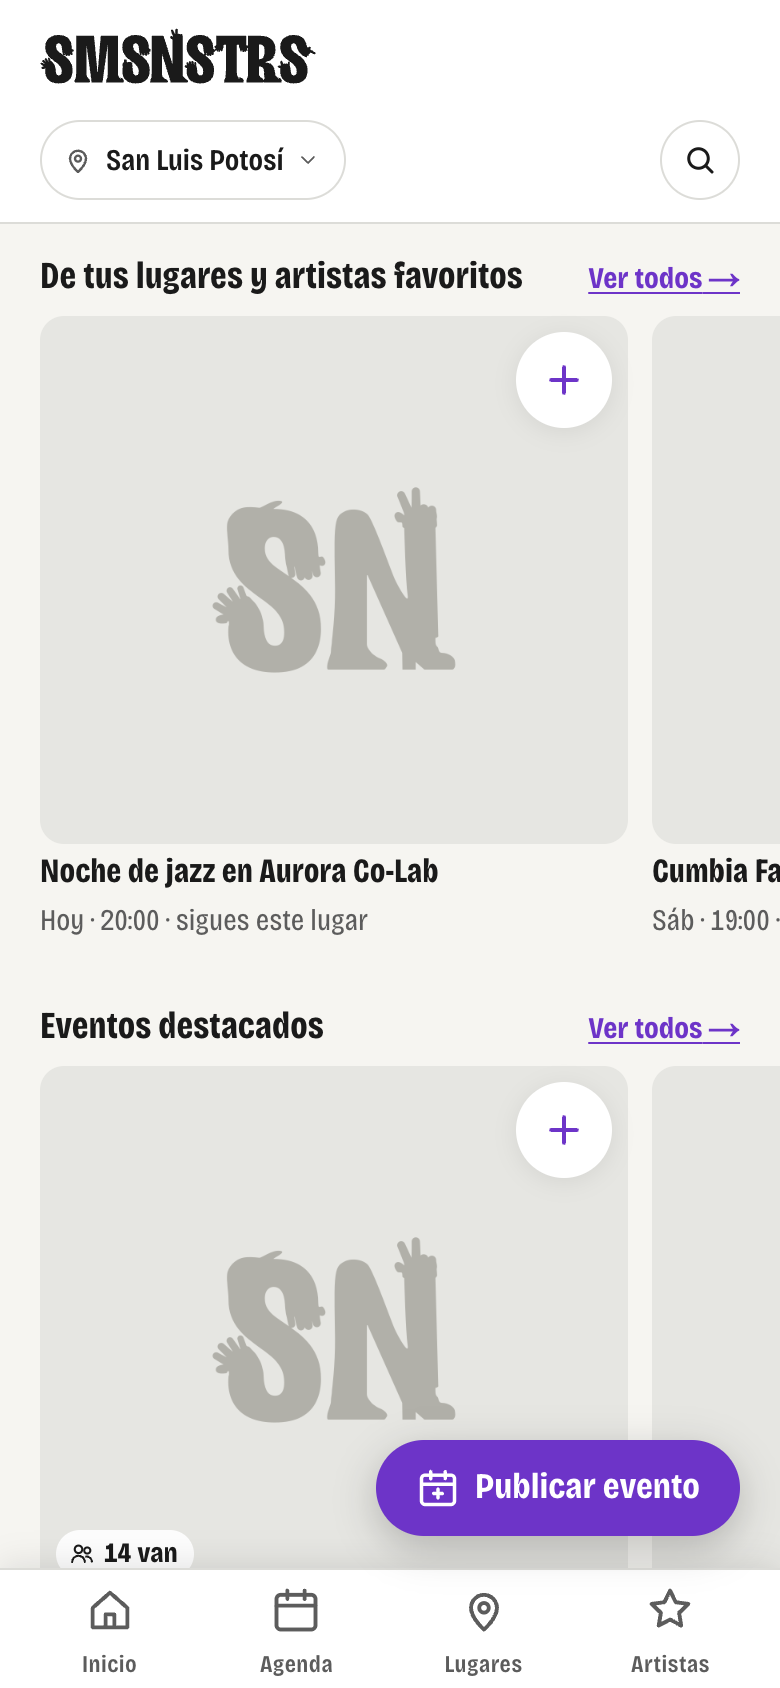
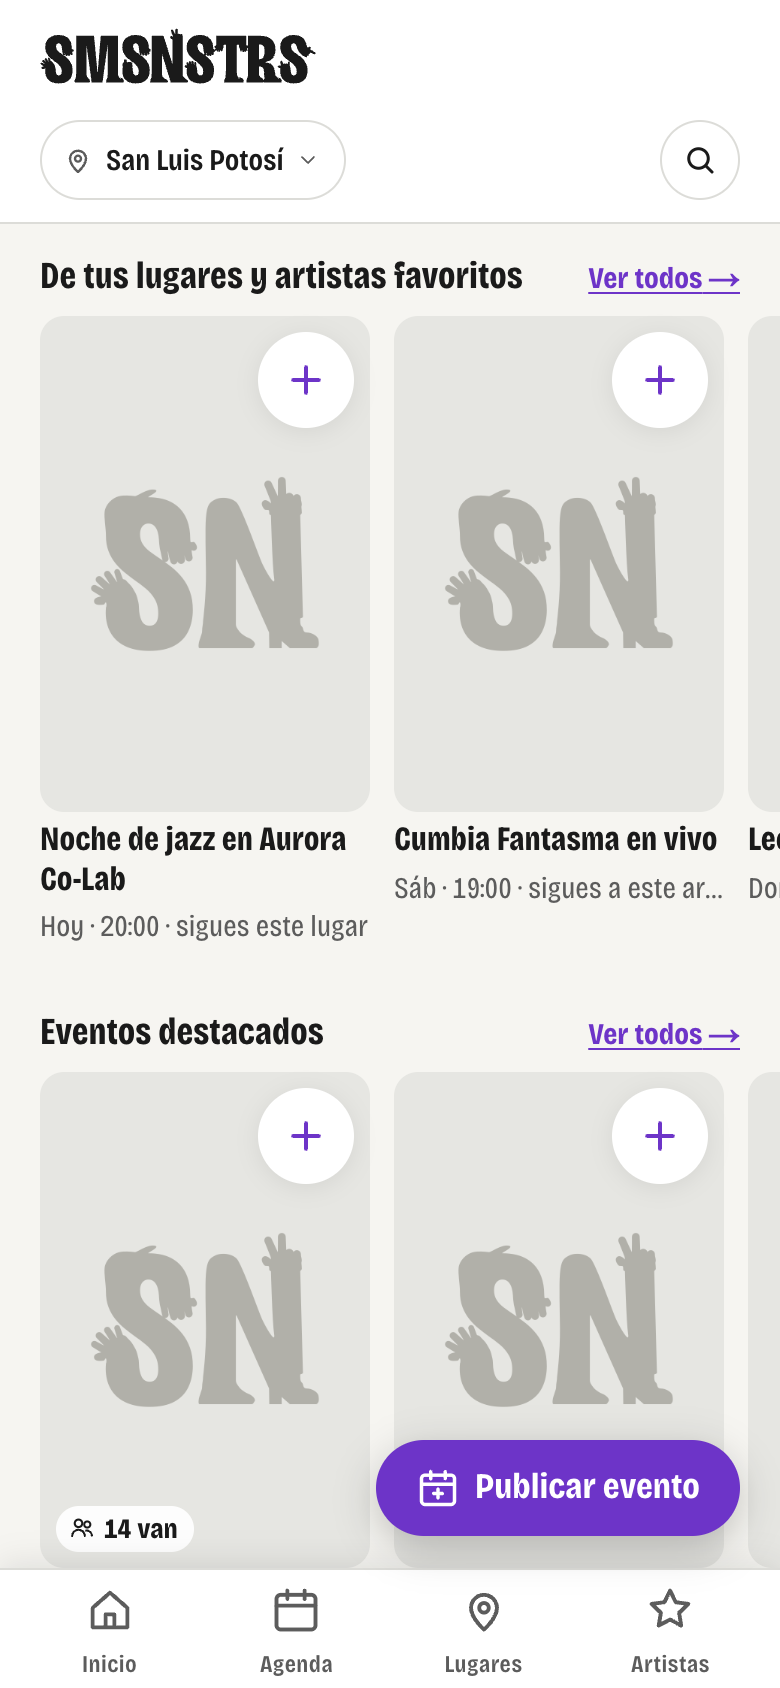
OL-153: corrección del gestor, tarjeta grande a cartel vertical 2:3
La variante grande de Destacados salía casi cuadrada y de casi todo
el ancho (440px, una sola tarjeta por pantalla). Se ajusta a lo
firmado: 165px de ancho, imagen 2:3 (248px de alto), para que quepan
dos tarjetas completas y el borde de una tercera a 390px. Solo se
tocó .grande; .uno.grande (una sola tarjeta en el carril) queda igual.
Capturas 01, 01b y 02 reemplazadas.

diff --git a/src/components/Destacados.module.css b/src/components/Destacados.module.css
@@ -112,16 +112,19 @@
 }
 
 /*
- * Solo «Destacados» (lo que elige la administración) va al doble y rectangular (founder, 2026-09-18); «Con eventos
- * esta semana» conserva el tamaño de antes, en las dos secciones (corrección del founder, 2026-09-19: había crecido
- * de más con el PR de los directorios alfabéticos). El carril conserva el desplazamiento real y la siguiente
- * tarjeta asoma, sin recorte artificial (precisión del founder, 2026-09-18).
+ * Solo «Destacados» (lo que elige la administración) va con cartel vertical, angosto (founder, 2026-09-18; corrección
+ * del gestor de cambios, 2026-09-23, bitácora 188: la primera entrega salía casi cuadrada y de casi todo el ancho,
+ * una sola tarjeta por pantalla — lo firmado es angosta, proporción de cartel 2:3, para que quepan dos tarjetas
+ * completas y el borde de una tercera a 390 px de ancho). «Con eventos esta semana» conserva el tamaño de antes, en
+ * las dos secciones (corrección del founder, 2026-09-19: había crecido de más con el PR de los directorios
+ * alfabéticos). El carril conserva el desplazamiento real y la siguiente tarjeta asoma, sin recorte artificial
+ * (precisión del founder, 2026-09-18).
  */
 .grande {
-  grid-auto-columns: min(440px, calc(100vw - var(--gutter) * 2 - 56px));
+  grid-auto-columns: 165px;
 }
 .grande .tarjeta {
-  grid-template-rows: 264px auto auto;
+  grid-template-rows: 248px auto auto;
 }
 
 /* Artistas, en «Con eventos esta semana»: redondos como su avatar, angostos y al centro. */

diff --git a/docs/bitacora/2026/09/188-inicio-app.md b/docs/bitacora/2026/09/188-inicio-app.md
@@ -54,6 +54,18 @@ Antes de entregar: `git diff origin/main..HEAD | grep -oE '[A-Za-z0-9._%+-]+@[A-
 
 Nuevos: `src/lib/inicio.ts`, `src/lib/inicio.test.ts`, `src/lib/cargarAgenda.ts`, `src/lib/buscarUnificado.ts`, `src/app/accionesBuscar.ts`, `src/app/inicio/page.tsx`, `src/components/Inicio.tsx`, `src/components/Inicio.module.css`, `src/components/BuscadorUnificado.tsx`, `src/components/BuscadorUnificado.module.css`, `src/components/ResultadosBusqueda.tsx`, `docs/rediseno/capturas-188/` (6 PNG), esta bitácora. Tocados: `src/app/page.tsx` (usa `cargarAgenda`, deep-links `filtro`/`q`), `src/app/lugares/page.tsx` y `VistaLugares.tsx` (deep-link `q`, `BuscadorUnificado` en la vista Lista), `src/components/AgendaInicio.tsx` (props `filtroInicial`/`busquedaInicial`), `src/components/Destacados.tsx`/`.module.css` (prop `verTodos`), `src/components/NavInferior.tsx`/`.module.css` (cuarto destino, Inicio primero), `src/components/MemoriaPantalla.tsx` (tipo `Seccion` con `"inicio"`), `docs/ops/OPEN_LOOPS.md`.
 
+## Corrección del gestor (mismo día, sobre `b051fd4`)
+
+El gestor abrió `01b-inicio-tres-tamanos.png` y señaló que la tarjeta `grande` no era lo firmado: salía casi cuadrada y de casi todo el ancho (440px, una sola tarjeta completa por pantalla). Lo decidido es una tarjeta angosta, proporción de cartel vertical (2:3), para que quepan dos tarjetas completas y el borde de una tercera a 390 px.
+
+Corregido en `src/components/Destacados.module.css`, solo la variante `.grande`: `grid-auto-columns` de `min(440px, calc(100vw - var(--gutter) * 2 - 56px))` a `165px` fijo, y la fila de la foto de `264px` a `248px` (165 × 3/2 ≈ 247.5, redondeado). Con el gutter de 20px y el espacio entre tarjetas de 12px, en un teléfono de 390px de ancho se ven las dos tarjetas completas (20 a 185, 197 a 362) y unos 16px del borde de la tercera antes del filo de la pantalla — el cálculo que pedía el gestor. No se tocó `.uno.grande` (el caso de una sola tarjeta en el carril, que conserva su rectángulo apilado: no es el caso que se veía en la captura, donde había varias tarjetas). El título (dos líneas, `-webkit-line-clamp`) y el detalle (una línea con "…") ya venían así en `.tarjeta`/`.tarjeta small` desde antes; no hizo falta tocarlos.
+
+Verificación repetida: `npm run lint` (misma advertencia preexistente), `npm run typecheck`, `npm test` (1070 pruebas) y `npm run build`, las cuatro en verde. Mismo arnés temporal (`src/app/arnes188-temporal/`, datos inventados, borrado antes de comitear), mismo Chrome real vía `playwright-core` a 390×844, `deviceScaleFactor: 2`, Bricolage confirmada (`document.fonts.check`) en las tres capturas reemplazadas.
+
+**`01-inicio-con-sesion.png` (reemplazada):** ahora se ven dos tarjetas completas de favoritos y el borde de una tercera, en proporción de cartel vertical; el mismo botón de asistencia flotando sobre cada una.
+**`01b-inicio-tres-tamanos.png` (reemplazada):** los tres tamaños ya se distinguen con claridad uno junto al otro: grande angosta y alta (favoritos, destacados), mediana casi cuadrada (populares) y chica redonda (lugares y artistas de la semana).
+**`02-inicio-sin-sesion.png` (reemplazada):** mismo ajuste en el carril de Destacados, sin sesión.
+
 ## Qué falta
 
 Segunda prueba del founder en su iPhone (Safari), como en toda pieza de esta fase. Commit local en `inicio-app`, sin push.
